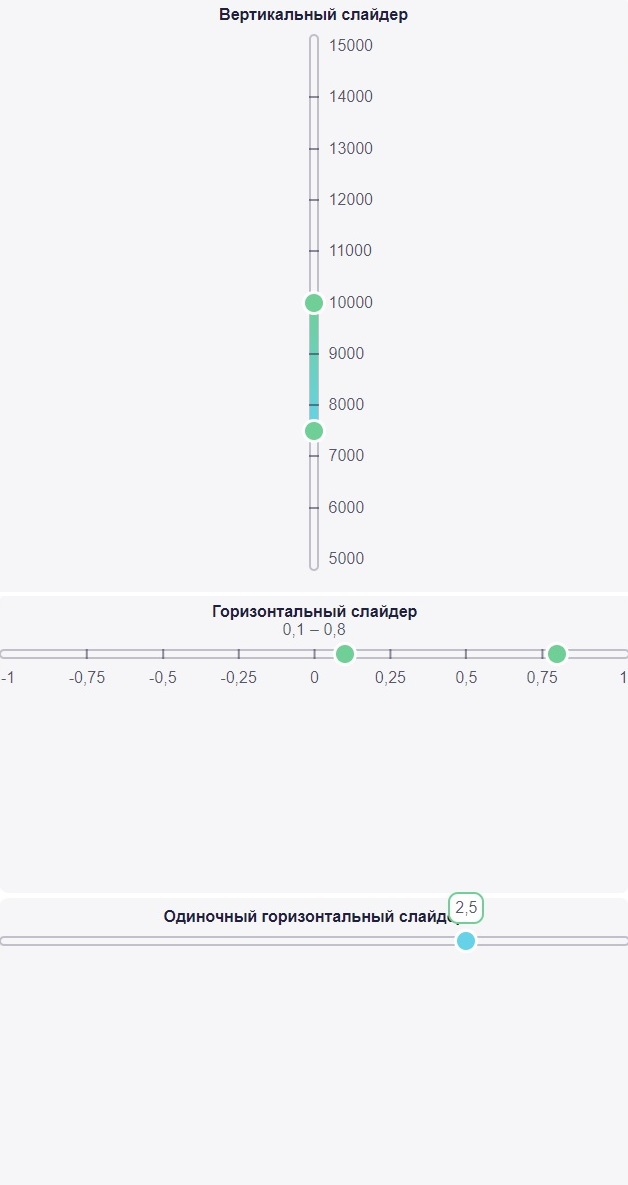
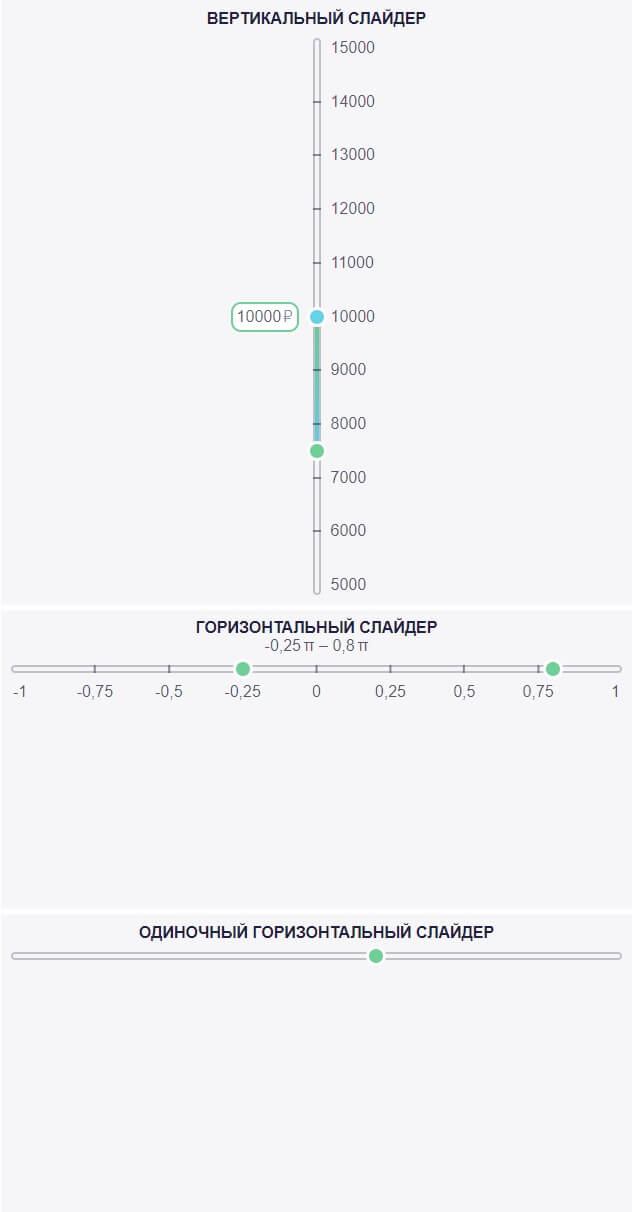
Updated readme

Changed region(s): [[0.0, 0.0, 1.0, 0.5932], [0.0, 0.7494, 1.0, 0.8118]]

diff --git a/README.md b/README.md
@@ -6,11 +6,11 @@
 
 ## Страница с примерами
 
-### [Examples page](https://van4e3wt.github.io/Mutilslider_V43/example.html)
+### [Examples page](https://van4e3wt.github.io/Mutilslider_V43/)
 
 ## Сборка проекта
 
-После скачивания необходимо установить пакеты
+После скачивания, для сборки проекта необходимо установить пакеты командой:
 
 ```
 npm install
@@ -23,16 +23,18 @@ npm run dev
 ```
 
 Запуск сборщика через скрипт dev позволяет сохранить пробельные символы и исходное форматирование кода.
-В случае, если необходимо минимизировать все файлы, используется команда: 
+В случае, если необходимо минимизировать все файлы, используется следующая команда: 
 
 ```
 npm run build
 ```
 
+В результате будет сформирована папка `dist` в которой будут находиться исходные файлы самого плагина и файлы, позволяющие отобразить страницу с [примерами](#страница-с-примерами).
+
 ## Инструкция по развёртыванию
 В первую очередь необходимо подключить `JQuery`. Вы можете скачать и подключить его на страницу, либо использовать подключение через ссылку на CDN.
 
-Следующим шагом необходимо скачать дистрибутив, расположенный в папке `dist` и содержащий два файла: `multislider-v43.css` и `multislider-v43.js`, которые необходимо подключить к проекту.
+Следующим шагом необходимо скачать проект и [собрать проект](#сборка-проекта), расположенный по адресу `dist/multislider-v43` и содержащий два файла: `multislider-v43.css` и `multislider-v43.js`, которые необходимо подключить к проекту.
 
 ```html
     ...
@@ -60,6 +62,7 @@ npm run build
 `popUpOfValue` – [boolean] позволяет включать/отключать "всплывающее" над бегунком значение слайдера (по умолчанию: `false`);    
 `scaleOfValues` – [number] шкала делений, которая позволяет указать числом количество равнораспределенных делений на всем слайдере. Значение 0 подразумевает отключение шкалы значений. Минимальное число делений шкалы – 3, а именно, по краям и в центре (по умолчанию: `0`);    
 `isProgressBar` – [boolean] позволяет включать/отключать `progress bar` (по умолчанию: `true`);    
+`postfix` – [string] позволяет задать постфикс для значения (например валюта) (по умолчанию: '');    
 
 `description` – [string] описание слайдера – заголовок (по умолчанию: `Range Slider`);    
 
@@ -114,6 +117,7 @@ ____
     popUpOfValue: true,
     scaleOfValues: 11,
     isProgressBar: true,
+    postfix: '₽',
 
     description: 'Вертикальный слайдер',
   });
@@ -136,12 +140,13 @@ ____
     popUpOfValue: false,
     scaleOfValues: 9,
     isProgressBar: false,
+    postfix: '$',
 
     description: 'Горизонтальный слайдер',
   });
 ```
 
-:warning: **Важно: При ручной инициализации, помимо текущих классов блока, будет автоматически добавлен класс `multislider-v43`.**
+:warning: **Важно: При инициализации, помимо текущих классов блока, будет автоматически добавлен класс `multislider-v43`.**
 
 :warning: **Важно: При создании вертикального слайдера, помимо класса `multislider-v43` добавляется также класс `multislider-v43_vertical`, который является зарезервированным для блока слайдера.**
 
